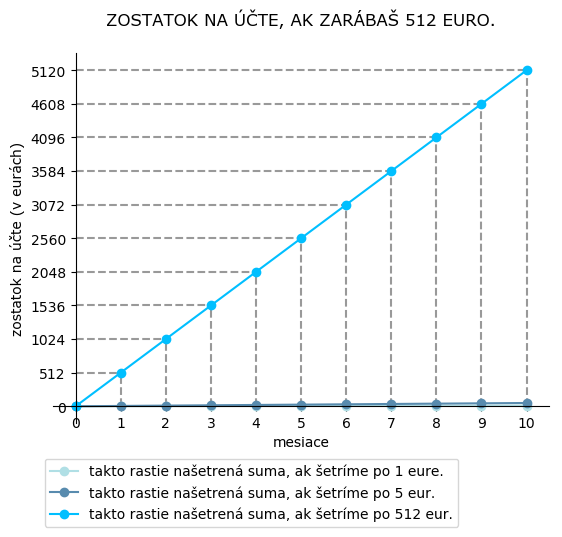
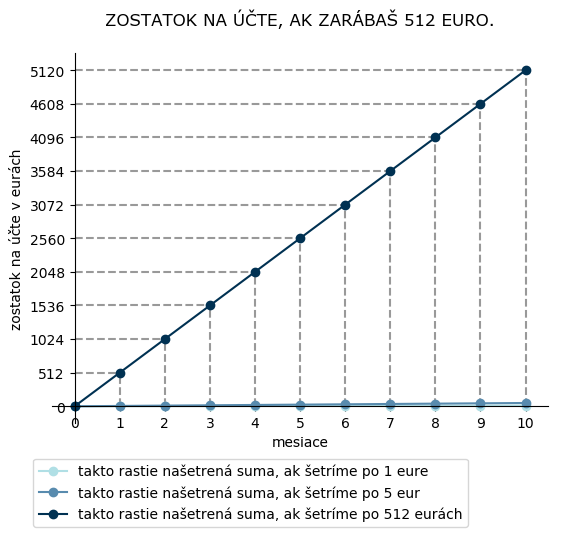
Add vocabulary page and fix errors in linear function

diff --git a/pages/linear_function.html b/pages/linear_function.html
@@ -14,7 +14,7 @@ Pre účel tohto článku budeš chodiť na brigádu. Na slabo platenú brigádu
   <img src="../assets/images/linF_GrowthPerOne.png" alt="Šetríme euro">
   <figcaption>Obr. 1.: Takto rastie tvoja našetrená suma, ak si každý mesiac odložíš euro.</figcaption>
 </figure>
- Lepšie by sa však šetrilo, ak by bola výplata väčšia. Nájdeš si teda lepšie platenú brigádu a každý mesiac si odložíš 5 eur. Prvý mesiac zarobíš 5 eur, odložíš si ich a máš ušetrených 5 eur. Druhý mesiac zarobíš zasa 5 eur a už máš našetrených 10 eur. Tretí mesiac dostaneš ďalších 5 eur a už máš našetrených 15 eur. Zostatk na účet bude teraz rásť o niečo krajšie:
+ Lepšie by sa však šetrilo, ak by bola výplata väčšia. Nájdeš si teda lepšie platenú brigádu a každý mesiac si odložíš 5 eur. Prvý mesiac zarobíš 5 eur, odložíš si ich a máš ušetrených 5 eur. Druhý mesiac zarobíš zasa 5 eur a už máš našetrených 10 eur. Tretí mesiac dostaneš ďalších 5 eur a už máš našetrených 15 eur. Zostatok na účte bude teraz rásť o niečo krajšie:
 
 <figure>
   <img src="../assets/images/linF_GrowthPerFive.png" alt="Šetríme 5 eur">
@@ -30,42 +30,42 @@ Keď si už konečne nájdeš normálnu brigádu, tak aj normálne zarobíš. Da
 
 Dúfam, že si si všimol, že čím viac si odkladáš, tým viac sa každý mesiac zvýši našetrená suma. <br /> <br />
 
-Ostaňmne na tej brigáde, kde zarábaš 512 eur. Vieš koľko by si si našetril za mesiac? Za dva? Za desať? Za 1 953,125 mesiaca? Za mesiac to je jasné, to rátať netreba, je to 512 eur. Za dva mesiace je to 512+512=1024 eur. Za desať mesiacov zrátaš 512 desať-krát a za 1 953,125 sa mi ani nechce písať. Ak by si mal zrátavať, že 512+512+512+.....+512, trvalo by to asi dlho. Jednoduchšie riešenie je, keď vynásobíš výplatu s počtom mesiacov a máš našetrenú sumu. Takže za 10 mesiacov si našetríš 10*512=5 120 eur a za 1 953,125 mesiacov si našetríš 1 953,125*512=1 000 000. Super! Vďaka matematike teraz vieš, že za 1 953,125 mesiacov (čo je iba necelých 163 rokov), budeš milionár. No neteš sa. <br /> <br />
+Ostaňme na tej brigáde, kde zarábaš 512 eur. Vieš koľko by si si našetril za mesiac? Za dva? Za desať? Za 1 953,125 mesiaca? Za mesiac to je jasné, to rátať netreba, je to 512 eur. Za dva mesiace je to 512+512=1024 eur. Za desať mesiacov zrátaš 512 desať-krát a za 1 953,125 sa mi ani nechce písať. Ak by si mal zrátavať, že 512+512+512+.....+512, trvalo by to asi dlho. Jednoduchšie riešenie je, keď vynásobíš výplatu s počtom mesiacov a máš našetrenú sumu. Takže za 10 mesiacov si našetríš 10*512=5 120 eur a za 1 953,125 mesiacov si našetríš 1 953,125*512=1 000 000. Super! Vďaka matematike teraz vieš, že za 1 953,125 mesiacov (čo je iba necelých 163 rokov), budeš milionár. No neteš sa. <br /> <br />
 
 Keďže matematika má veľmi rada zovšeobecňovanie, nebudeme písať, že: našetrená suma = výplata * počet mesiacov. Je to dlhé a navyše to nesedí, ak by si si odkladal sumu len raz za rok alebo namiesto výplaty by si si odkladal cukríky. Preto budeme písať: $$y = a*x$$
 
-Písmeno y je tá vec, ktorú chceš vedieť. Môže to byť napríklad našetrená suma. Písmeno x je niečo čo sa mení. V našom prípade je to počet mesiacov, lebo raz chceš vedieť našetrenú sumu po troch mesiacoch, inokedy po desiatich alebo po sto mesiacoch. Pretože sa x mení, nazýva sa premenná. Písmeno a sa nazýva konštanta, pretože sa nemení (krátka odbočka k významu slova: keď je niečo konštantné, tak to znamená, že sa to nemení, je to stále rovnaké). Môžeš si všimnúť, že zmena medzi x a x+1 je práve písmenko a. V našom prípade si vyber x akýkoľvek mesiac (napr. mesiac 9), tak x+1 je mesiac hneď po ňom (mesiac 10). Rozdiel v úsporách medzi týmito dvomi mesiacmi je práve písmeno a. Tiež si ešte prosím všimni, že čím je á-čko väčšie, tým rýchlejšie rastie našetrená suma. <br /> <br />
+Písmeno <i>y</i> je tá vec, ktorú chceš vedieť. Môže to byť napríklad našetrená suma. Písmeno <i>x</i> je niečo čo sa mení. V našom prípade je to počet mesiacov, lebo raz chceš vedieť našetrenú sumu po troch mesiacoch, inokedy po desiatich alebo po sto mesiacoch. Pretože sa <i>x</i> mení, nazýva sa premenná. Písmeno <i>a</i> sa nazýva konštanta, pretože sa nemení (krátka odbočka k významu slova: keď je niečo konštantné, tak to znamená, že sa to nemení, je to stále rovnaké). Môžeš si všimnúť, že zmena hodnoty <i>y</i> medzi <i>x</i> a <i>x+1</i> je práve písmenko <i>a</i>. V našom prípade si vyber <i>x</i> akýkoľvek mesiac (napr. mesiac 9), tak <i>x+1</i> je mesiac hneď po ňom (mesiac 10). Rozdiel v úsporách medzi týmito dvomi mesiacmi je práve písmeno <i>a</i>. Tiež si ešte prosím všimni, že čím je <i>a</i> väčšie, tým rýchlejšie rastie našetrená suma. <br /> <br />
 
-V naozajstnom svete však iba nezarábaš, ale aj míňaš. Predstav si, že pri zakladaní účtu si zabudol banke poslať doklad o návšteve školy a teraz máš namiesto študenstského účtu platený. Okrem toho si ešte nezačal chodiť na brigádu, tak nič nezarábaš, ale za účet už platíš. Poplatok za účet sa pohybuje okolo 6 eur na mesiac. Ideš každý mesiac do mínusu. Aby sme to vyhrotili ešte viac, tak sa odstahuješ do vlastného bytu a budeš platiť nájom. Nejakých 490 eur vrátane energií by mohlo stačiť. Poďme sa pozrieť, ako rýchlo sa budeš rútiť do dlhov keď budeš platiť iba za účet a ako rýchlo keď budeš platiť nájom. 
+V naozajstnom svete však iba nezarábaš, ale aj míňaš. Predstav si, že pri zakladaní účtu si zabudol banke poslať doklad o návšteve školy a teraz máš namiesto študentského účtu platený. Okrem toho si ešte nezačal chodiť na brigádu, tak nič nezarábaš, ale za účet už platíš. Poplatok za účet sa pohybuje okolo 6 eur na mesiac. Ideš každý mesiac do mínusu. Aby sme to vyhrotili ešte viac, tak sa odstahuješ do vlastného bytu a budeš platiť nájom. Nejakých 490 eur vrátane energií by mohlo stačiť. Poďme sa pozrieť, ako rýchlo sa budeš rútiť do dlhov keď budeš platiť iba za účet a ako rýchlo keď budeš platiť nájom. 
 
 <figure>
   <img src="../assets/images/linF_AisNegative.png" alt="Míňame 6 eur alebo 490 eur">
-  <figcaption>Obr. 4.: Tvoj zostatok (skvôr úbytok) na účte, keď iba míňaš a nič nezarábaš.</figcaption>
+  <figcaption>Obr. 4.: Tvoj zostatok (skôr úbytok) na účte, keď iba míňaš a nič nezarábaš.</figcaption>
 </figure>
 
-Môžeš si všimnúť, že to funguje rovnako, ako pri zarábaní. Čím viac minieš každž mesiac, tým máš väčšie dlhy. Na tomto príklade sme ti chceli ukázať, že písmeno a v starom známom vzorci $y = a*x$, nemusí byť iba kladné, ale môže ísť aj do mínusu. <br /> <br />
+Môžeš si všimnúť, že to funguje rovnako, ako pri zarábaní. Čím viac minieš každý mesiac, tým máš väčšie dlhy. Na tomto príklade sme ti chceli ukázať, že písmeno <i>a</i> v starom známom vzorci $y = a*x$, nemusí byť iba kladné, ale môže ísť aj do mínusu. <br /> <br />
 
-Poďme pridať do dlhov trochu optimizmu. Teraz sa prenes do situácie, že si zakladáš v banke účet, začínaš brigádu a tete si nezabudol doniesť papierik s potvrdením o návšteve školy. Keď si založíš účet, tak si na nule, žiadne dlhy. Teraz ten optimizmus. Na novučičký účet ti rodičia pošlú stovku, takže nezačínaš vlastne na nule ale na sto eur. Nech nie je toho dobrého veľa, necháme ťa na brigáde zarábať 50 eur. V grafe to vyzerá takto:
+Poďme pridať do dlhov trochu optimizmu. Teraz sa prenes do situácie, že si zakladáš v banke účet, začínaš brigádu a tete si nezabudol doniesť papierik s potvrdením o návšteve školy. Keď si založíš účet, tak si na nule, žiadne dlhy. Teraz ten optimizmus. Na novučičký účet ti rodičia pošlú stovku, takže nezačínaš vlastne na nule ale na sto eurách. Nech nie je toho dobrého veľa, necháme ťa na brigáde zarábať 50 eur. V grafe to vyzerá takto:
 
 <figure>
   <img src="../assets/images/linF_StartAt100.png" alt="Rodičia dajú stovku na začiatok">
   <figcaption>Obr. 5.: Keď ťa rodičia podporia stovkou.</figcaption>
 </figure>
 
-Keď tvoji rodičia nájdu ropu alebo vyhrajú jackpot, tak si predstav, kde by si začínal, lebo to kresliť do grafu nebudeme. Nezmenstí sa. Nebuď však smutný, aj keby si začínal na 10-tich eurách, je to stále lepšie, ako by si mal začínať na mínus 10 eur. Zoberme si takého Ferka, Jožka a Terezku. Všetci traja si nájdu brigádu, kde zarobia 17 eur na mesiac. Všetci si idú založiť účet. Jožko nájde na chodníku 20 eurovku a tak si ju hneď vloží na účet. Jožko začína na 20 eur. Ferko si tiež založil účet v banke, ale po ceste domov stretol kamaráta, s ktorým sa stavil o 20 eur, že preskočí plot. Ferko plot nepreskočil, prehral 20 eur a navyše má rozbitú ústa. Ferko začína na -20 desať eur. Terezka ani nenašla na chodníku peniaze a ani sa nestavila s kamarátom, tak začína na nule. Môžeš z grafu hádať, kto bude mať našetrené viac po ôsmich mesiacoch.
+Keď tvoji rodičia nájdu ropu alebo vyhrajú jackpot, tak si predstav, kde by si začínal, lebo to kresliť do grafu nebudeme. Nezmestí sa. Nebuď však smutný, aj keby si začínal na 10-tich eurách, je to stále lepšie, ako by si mal začínať na mínus 10 eur. Zoberme si takého Ferka, Jožka a Terezku. Všetci traja si nájdu brigádu, kde zarobia 17 eur za mesiac. Všetci si idú založiť účet. Jožko nájde na chodníku 20 eurovku a tak si ju hneď vloží na účet. Jožko začína na 20 eur. Ferko si tiež založil účet v banke, ale po ceste domov stretol kamaráta, s ktorým sa stavil o 20 eur, že preskočí plot. Ferko plot nepreskočil, prehral 20 eur a navyše má rozbitú ústa. Ferko začína na -20 desať eur. Terezka ani nenašla na chodníku peniaze a ani sa nestavila s kamarátom, tak začína na nule. Môžeš z grafu hádať, kto bude mať našetrené viac po ôsmich mesiacoch.
 
 <figure>
   <img src="../assets/images/linF_ThreeDifferentB.png" alt="Každý kamarát začína šetriť na inej sume">
   <figcaption>Obr. 6.: Ferko, Jožko a Terezka začínajú šetriť na inej sume.</figcaption>
 </figure>
 
-Teraz pôjdeme zase zovšeobecňovať. Mohol si si všimnúť, že nám tu pribudla nejaká počiatočná suma. Vďaka tomu už v bode 0 na x-ovej osi nie je 0 na osi y. Skratka môžeš začať šetriť aj na inej sume ako na nule. Už si vieš vyrátať, že v tom a v tom mesiaci, akú budeš mať výplatu, keď zarábaš toľko a toľko. Pre osvieženie pamäti je to našetrená suma = výplata * počet mesiacov alebo $y = a*x$. Lenže čo s tou počiatočnou sumou. Tú k tvojim úsporám môžešjednoducho prirátať. Keď si našetril nejaký peniaz a rodičia ti dali stovku, tak máš o stovku viac. Čiže by sme to mohli zasa napísať ako našetrená suma = výplata * počet mesiacov + počiatočný vklad. Takto to však písať nechceme, lebo zasa to nesedí na všetky situácie (keď napr. šetríš flaškové štuple namiesto eur). Pomôžeme si opäť matematickým zápisom a počiatočnú sumu pridáme do vzorca v podobe písmena b.
+Teraz pôjdeme zase zovšeobecňovať. Mohol si si všimnúť, že nám tu pribudla nejaká počiatočná suma. Vďaka tomu už v bode 0 na <i>x-ovej</i> osi nie je 0 na osi <i>y</i>. Skratka môžeš začať šetriť aj na inej sume ako na nule. Už si vieš vyrátať, že v tom a v tom mesiaci, akú budeš mať výplatu, keď zarábaš toľko a toľko. Pre osvieženie pamäti je to našetrená suma = výplata * počet mesiacov alebo $y = a*x$. Lenže čo s tou počiatočnou sumou. Tú k tvojim úsporám môžeš jednoducho prirátať. Keď si našetril nejaký peniaz a rodičia ti dali stovku, tak máš o stovku viac. Čiže by sme to mohli zasa napísať ako našetrená suma = výplata * počet mesiacov + počiatočný vklad. Takto to však písať nechceme, lebo zasa to nesedí na všetky situácie (keď napr. šetríš flaškové štuple namiesto eur). Pomôžeme si opäť matematickým zápisom a počiatočnú sumu pridáme do vzorca v podobe písmena <i>b</i>.
 
 $$y = a*x + b$$
 
-Ak vieš čo znamenajú písmená y,x,a,b, tak gratulujeme, práve si pochopil lineárnu funkciu. Ak nevieš, tak sa to bež doučiť, lebo my už končíme. <br /> <br />
+Ak vieš čo znamenajú písmená <i>y,x,a,b,</i> tak gratulujeme, práve si pochopil lineárnu funkciu. Ak nevieš, tak sa to bež doučiť, lebo my už končíme. <br /> <br />
 
-Ešte záverečné opakovanie. Písmeno y, je to čo chceš vedieť (to čo rátaš). Písmeno x je premenná-mení sa. Zvyčajne zaň dosádzaš čísla z osi x. Písmeno a je konštanta. Máš ju danú. Môže byť záporná, kladná, veľká, malá, celá, desatinná a neviem aká ešte. Jej veľkosť určuje, ako rýchlo funkcia rastie (klesá). Ak je kladná, čím väčšie x, tým väčšie y (ideš do plusu). Ak je záporná, tak čím väčšie x, tým menšie y (dlhy narastajú). Písmeno b, je hodnota funkcie v bode 0. Hovorí ti, že kde začínaš. Tiež môže záporné, kladné, celé aj desatinné číslo. Všimni si, že keď dosadíš za x nulu, tak y ti výde rovný b. <br /> <br />
+Ešte záverečné opakovanie. Písmeno <i>y</i>, je to čo chceš vedieť (to čo rátaš). Písmeno <i>x</i> je premenná-mení sa. Zvyčajne zaň dosádzaš čísla z osi <i>x</i>. V príkladoch to nemáme uvedené, ale <i>x</i> môže byť samozrejme aj záporné alebo desatinné číslo. Môže to byť hocičo od -&infin; po +&infin;. Písmeno <i>a</i> je konštanta. Máš ju danú. Môže byť záporná, kladná, veľká, malá, celá, desatinná a neviem aká ešte. Jej veľkosť určuje, ako rýchlo funkcia rastie (klesá). Ak je kladná, čím väčšie <i>x</i>, tým väčšie <i>y</i> (ideš do plusu). Ak je záporná, tak čím väčšie <i>x</i>, tým menšie <i>y</i> (dlhy narastajú). Ak zaň dáme nulu, lineárna funkcia sa zmení na konštantnú (lebo y bude stále rovné <i>b</i>). Písmeno <i>b</i>, je hodnota funkcie v bode 0. Hovorí ti, že kde začínaš. Tiež môže záporné, kladné, celé aj desatinné číslo. Všimni si, že keď dosadíš za <i>x</i> nulu, tak <i>y</i> ti výde rovný <i>b</i>. <br /> <br />
 
 Tak to je naozaj všetko. Ďakujeme, že si to s nami vydržal až to konca a dúfame, že sme ti aspoň trošičku pomohli :). 
 </div>

diff --git a/pages/vocabulary.html b/pages/vocabulary.html
@@ -1,0 +1,30 @@
+---
+layout: default
+title: LinearFunction
+---
+
+<div class='content'>
+
+<h1>Matematicko-slovenský slovník</h1>
+
+<div class='vocabLetter'>H</div>
+<div class='vocabEntry'>
+<b>Horizontálny</b> <div>niečo, čo je vodorovne</div>
+</div>
+
+<div class='vocabLetter'>K</div>
+<div class='vocabEntry'>
+<b>Konštantný</b> <div>niečo, čo sa nemení. Je to stále rovnaké, nech sa deje, čo sa deje.</div>
+</div>
+
+<div class='vocabLetter'>L</div>
+<div class='vocabEntry'>
+<b>Lineárny</b> <div>odvodený od slova línia. Línia je čiara. Môže byť priama alebo aj krivá. Pri názve <i>Lineárna funkcia</i> sa myslí rovná čiara. Ak niečo rastie (alebo klesá) lineárne, znamená to, že sa to zväčšuje (zmenšuje) v každom kroku o rovnakú časť (napr. keď si každý mesiac odložíš rovnakú sumu, tak tvoja našetrená suma rastie linárne). </div>
+</div>
+
+<div class='vocabLetter'>V</div>
+<div class='vocabEntry'>
+<b>Vertikálny</b> <div>niečo, čo je zvislo</div>
+</div>
+
+</div>

diff --git a/_includes/navigation.html b/_includes/navigation.html
@@ -4,14 +4,14 @@
     <button class="dropbtn">Algebra</button>
     <div class="dropdown-content">
       <a href="/pages/linear_function.html">Lineárna funkcia</a>
-      <a href="#">Kvadratická funkcia</a>
-      <a href="#">Exponenciálna funkcia</a>
+      <!--a href="#">Exponenciálna funkcia</a-->
     </div> <!--end of dropdown content-->
   </div> <!--end of dropdown-->
 
   <a href="#contact">Geometria</a>
   <a href="#about">Analytická geometria</a>
   <a href="#about">Pravdepodobnosť a štatistika</a>
+  <a href="/pages/vocabulary.html">Slovník</a>
   <a href="javascript:void(0);" class="icon" onclick="myFunction()">
 	<i class="fa fa-bars"></i>
   </a>

diff --git a/assets/css/styles.css b/assets/css/styles.css
@@ -31,3 +31,20 @@ h1 {
 .content figure img{
 	width: 80%;
 }
+
+.vocabLetter{
+	text-align: center;
+	font-size: 150%;
+	font-family: var(--primaryFont);
+	margin: 5%;
+}
+
+
+.vocabEntry b{
+	float: left;
+}
+
+.vocabEntry div{
+	
+	margin-left: 20%;
+}
